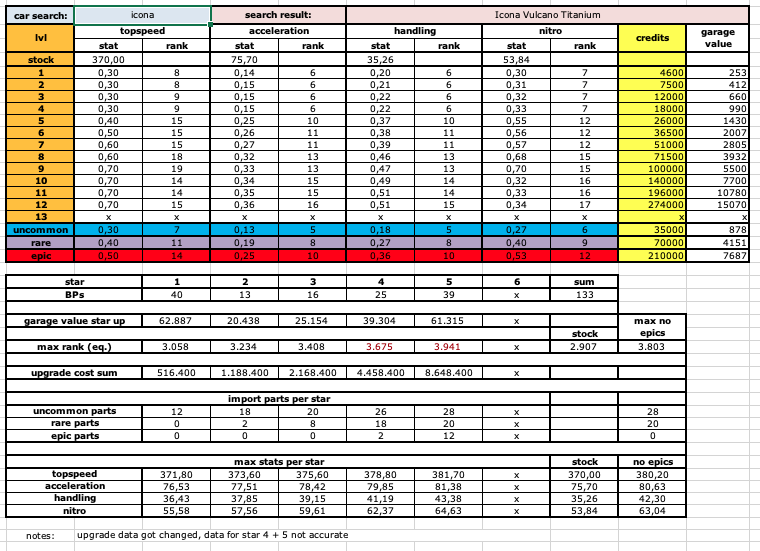
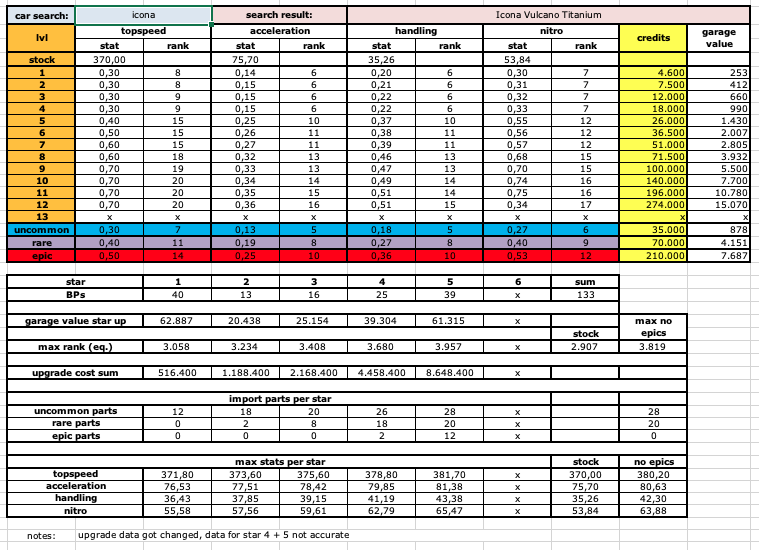
231113

Changed region(s): [[0.0, 0.0, 1.0, 0.9891], [0.6364, 0.0, 0.7879, 0.0618], [0.5152, 0.0309, 0.5758, 0.0618]]

diff --git a/Cogs/feedback_test.py b/Cogs/feedback_test.py
@@ -1,0 +1,166 @@
+# 피드백 요청을 남기는 명령어
+# Last Update : 231113
+
+import discord
+
+from discord.ext import commands
+from discord import app_commands
+from discord.ui import Modal, View
+from .utils import print_time, settings
+
+
+feedback_log_channel = int(settings.feedback_log_channel)
+log_channel = int(settings.log_channel)
+ 
+class SpawnModal(commands.Cog):
+    def __init__(self, app : commands.Bot) :
+        self.app = app
+
+        
+    @app_commands.command(name= 'feedback', description= '뭔가 피드백을 남기고 싶은 게 있나요?')
+    @app_commands.checks.cooldown(1, 30, key= lambda i :(i.guild_id, i.user.id))
+    @app_commands.guild_only()
+    async def warn_spawnmodal(self, interaction : discord.Interaction):
+    
+        embed_warn = discord.Embed(title= '❗경고', description= '문제 전송 시 중간에 취소할 수 없습니다!', colour= 0xf50900)
+        embed_warn.add_field(name= '', value= '이 명령어를 실행하실 때 마다 30초의 쿨타임이 존재합니다!', inline= False)
+        embed_warn.add_field(name= '', value= '숙지하셨다면 어떤 문제를 신고하실 것인지 버튼을 눌러 진행해주십시오.', inline= False)
+        embed_warn.add_field(name= '', value= '이 메세지는 60초 안에 지워집니다.')
+        # await interaction.response.send_message('', embeds= embed_warn, view= warn_before(), ephemeral= True, delete_after= 60)
+         
+        # 베타 테스트 임베드 표시
+        embed_beta_test = discord.Embed(title= '베타 테스트 기간', colour= 0xf50900,
+                                        description= '2023년 11월 13일 오후 10시 ~ 2023년 11월 17일 0시')
+        
+        await interaction.response.send_message('', embeds= [embed_beta_test, embed_warn], view= warn_before(), ephemeral= True, delete_after= 60)
+          
+    @warn_spawnmodal.error
+    async def cooldown_err(self, interaction : discord.Interaction, error : app_commands.AppCommandError):
+        ch = self.app.get_channel(log_channel)
+        if isinstance(error, app_commands.CommandOnCooldown):
+            
+            embed_cd_error = discord.Embed(title= '어이쿠! 아직 이용하실 수 없습니다!',
+                                           description= f'{int(error.retry_after)}초 후에 다시 시도해주세요!',
+                                           colour= 0xf40404)
+            
+            await interaction.response.send_message(embed= embed_cd_error, delete_after=5, ephemeral= True)
+            
+            err = f"오류 > {await print_time.get_UTC()} > feedback > 서버: {interaction.guild.name} > 채널 : {interaction.channel.name} > 실행자: {interaction.user.display_name} > timeout_err"
+            await ch.send(err)
+            
+            print('---------------------------------------') 
+            print(err)
+            print('---------------------------------------') 
+    
+class FixModal(Modal, title = '데이터 수정 요청'):    
+        
+    fix_problem = discord.ui.TextInput(
+        label= '세부 설명(필수)',
+        style= discord.TextStyle.long,
+        placeholder= '문제를 자세히 적어주세요!',
+        max_length= 1000,
+        required= True,
+    )
+    
+    async def on_submit(self, interaction: discord.Interaction) -> None:
+        log_ch = interaction.client.get_channel(log_channel)
+        feedback_ch = interaction.client.get_channel(feedback_log_channel)
+        
+        embed_sent = discord.Embed(title= '전송 완료', description= '정상적으로 전송이 완료되었습니다!', colour= 0x09f000)
+        await interaction.response.send_message(embed= embed_sent, ephemeral= True, delete_after= 10)
+        
+        confirm = f"정상 실행 > {await print_time.get_UTC()} > feedback > 서버: {interaction.guild.name} > 채널 : {interaction.channel.name} > 실행자: {interaction.user.display_name} > Req Fix"
+        await log_ch.send(confirm); print(confirm)  
+        
+        embed_problem = discord.Embed(title= 'Feedback 추가', description= '데이터 수정 요청', colour= 0x09f000)
+        embed_problem.add_field(name= '서버명', value= f'{interaction.guild.name}', inline= True)
+        embed_problem.add_field(name= '유저명 (Global)', value= f'{interaction.user.global_name}')
+        embed_problem.add_field(name= '문제 묘사', value= self.fix_problem.value, inline= False)
+        
+        await feedback_ch.send(embed= embed_problem)
+        
+    
+class SuggestModal(Modal, title= '기타 제안'):    
+    
+    suggest = discord.ui.TextInput(
+        label= '세부 설명(필수)',
+        style= discord.TextStyle.long,
+        placeholder= '자세히 적어주세요!',
+        max_length= 1000,
+        required= True,
+    )
+    
+    
+    async def on_submit(self, interaction: discord.Interaction) -> None:
+        log_ch = interaction.client.get_channel(log_channel)
+        feedback_ch = interaction.client.get_channel(feedback_log_channel)
+        
+        embed_sent = discord.Embed(title= '전송 완료', description= '정상적으로 전송이 완료되었습니다!', colour= 0x09f000)
+        await interaction.response.send_message(embed= embed_sent, ephemeral= True, delete_after= 10)
+        
+        confirm = f"정상 실행 > {await print_time.get_UTC()} > feedback > 서버: {interaction.guild.name} > 채널 : {interaction.channel.name} > 실행자: {interaction.user.display_name} > Suggest"
+        await log_ch.send(confirm); print(confirm)  
+        
+        embed_problem = discord.Embed(title= 'Feedback 추가', description= '기타 제안', colour= 0x0407f9)
+        embed_problem.add_field(name= '서버명', value= f'{interaction.guild.name}', inline= True)
+        embed_problem.add_field(name= '유저명 (Global)', value= f'{interaction.user.global_name}')
+        embed_problem.add_field(name= '문제 묘사', value= self.suggest.value, inline= False)
+        
+        await feedback_ch.send(embed= embed_problem)
+        
+             
+        
+class ReportModal(Modal, title = '봇 작동 신고'):    
+            
+    problem = discord.ui.TextInput(
+        label= '세부 설명(필수)',
+        style= discord.TextStyle.long,
+        placeholder= '문제를 자세히 적어주세요!',
+        max_length= 1000,
+        required= True,
+    )
+    
+    async def on_submit(self, interaction: discord.Interaction) -> None:
+        log_ch = interaction.client.get_channel(log_channel)
+        feedback_ch = interaction.client.get_channel(feedback_log_channel)
+        
+        embed_sent = discord.Embed(title= '전송 완료', description= '정상적으로 전송이 완료되었습니다!', colour= 0x09f000)
+        await interaction.response.send_message(embed= embed_sent, ephemeral= True, delete_after= 10)
+        
+        confirm = f"정상 실행 > {await print_time.get_UTC()} > feedback > 서버: {interaction.guild.name} > 채널 : {interaction.channel.name} > 실행자: {interaction.user.display_name} > Report"
+        await log_ch.send(confirm); print(confirm)  
+        
+        embed_problem = discord.Embed(title= '봇 작동 신고', description= 'Report', colour= 0xf50500)
+        embed_problem.add_field(name= '서버명', value= f'{interaction.guild.name}', inline= True)
+        embed_problem.add_field(name= '유저명 (Global)', value= f'{interaction.user.global_name}')
+        embed_problem.add_field(name= '세부 설명', value= self.problem.value, inline= False)
+        
+        await feedback_ch.send(embed= embed_problem)
+        
+        
+        
+class warn_before(View):
+    def __init__(self):
+        super().__init__(timeout= None)
+        self.cooldown = commands.CooldownMapping.from_cooldown(1, 30, commands.BucketType.member)
+        
+    @discord.ui.button(label= '봇 작동 신고', style= discord.ButtonStyle.danger, custom_id= 'button_cooldown')
+    async def report_prob(self, interaction : discord.Interaction, button : discord.ui.Button):
+        await interaction.response.send_modal(ReportModal())
+        await interaction.delete_original_response()
+          
+        
+    @discord.ui.button(label= '데이터 수정 요청', style= discord.ButtonStyle.green)
+    async def request_fix(self, interaction : discord.Interaction, button : discord.ui.Button):
+        await interaction.response.send_modal(FixModal())
+        await interaction.delete_original_response()
+        
+    
+    @discord.ui.button(label= '기타 제안', style= discord.ButtonStyle.primary)
+    async def suggestion(self, interaction : discord.Interaction, button : discord.ui.Button):
+        await interaction.response.send_modal(SuggestModal())
+        await interaction.delete_original_response()
+        
+        
+async def setup(app):
+    await app.add_cog(SpawnModal(app))

diff --git a/main.py b/main.py
@@ -1,5 +1,5 @@
 # 메인 코드 모음
-# Last update : 231026
+# Last update : 231113
 
 import discord
 import os
@@ -12,14 +12,13 @@ from datetime import datetime as dt
 
 intents = discord.Intents.default()
 intents.message_content = True
-app = commands.Bot(command_prefix="?",intents=intents, )
+app = commands.Bot(command_prefix="?",intents=intents)
 
 discord_api_token = str(settings.discord_api_token)
 
 car_img = settings.car_img
 car_list = str(settings.car_list)
 log_channel = int(settings.log_channel)
-
 
 # 확장 기능(명령어) 로드
 async def load_extensions():
@@ -58,12 +57,14 @@ async def on_ready():
     except Exception as e:
         print(e)
 
+@app.event
 async def on_message(ctx : discord.Message) -> None:
     if ctx.author.bot or not app.is_ready():
         pass
-    
-           
+
+        
 # 에러 관리
+@app.event
 async def on_command_error(interaction : discord.Interaction, error):
     # 존재하지 않는 명령어 에러처리
     if isinstance(error, commands.CommandNotFound):
@@ -75,7 +76,6 @@ async def on_command_error(interaction : discord.Interaction, error):
         embed = discord.Embed(title="오류",description="예기치 못한 오류가 발생했습니다.",colour=0xFF0000)
         embed.add_field(name="상세", value=f"```{error}```")
         await interaction.response.send_message("",embed=embed,ephemeral=True)  
-
 
 def main():
     app.run(discord_api_token)

diff --git a/Cogs/utils/settings.py b/Cogs/utils/settings.py
@@ -1,5 +1,5 @@
 # 디코 세팅
-# Last Update : 231030
+# Last Update : 231113
 
 import os, sys
 
@@ -16,3 +16,5 @@ car_img = os.getenv('car_img')
 mei = os.getenv('mei')
 a9_db = os.getenv('a9_db')
 log_channel = os.getenv('log_channel')
+feedback_log_channel = os.getenv('feedback_log_channel')
+ASL_Assistant_owner_id = os.getenv('ASL_Assistant_owner_id')
